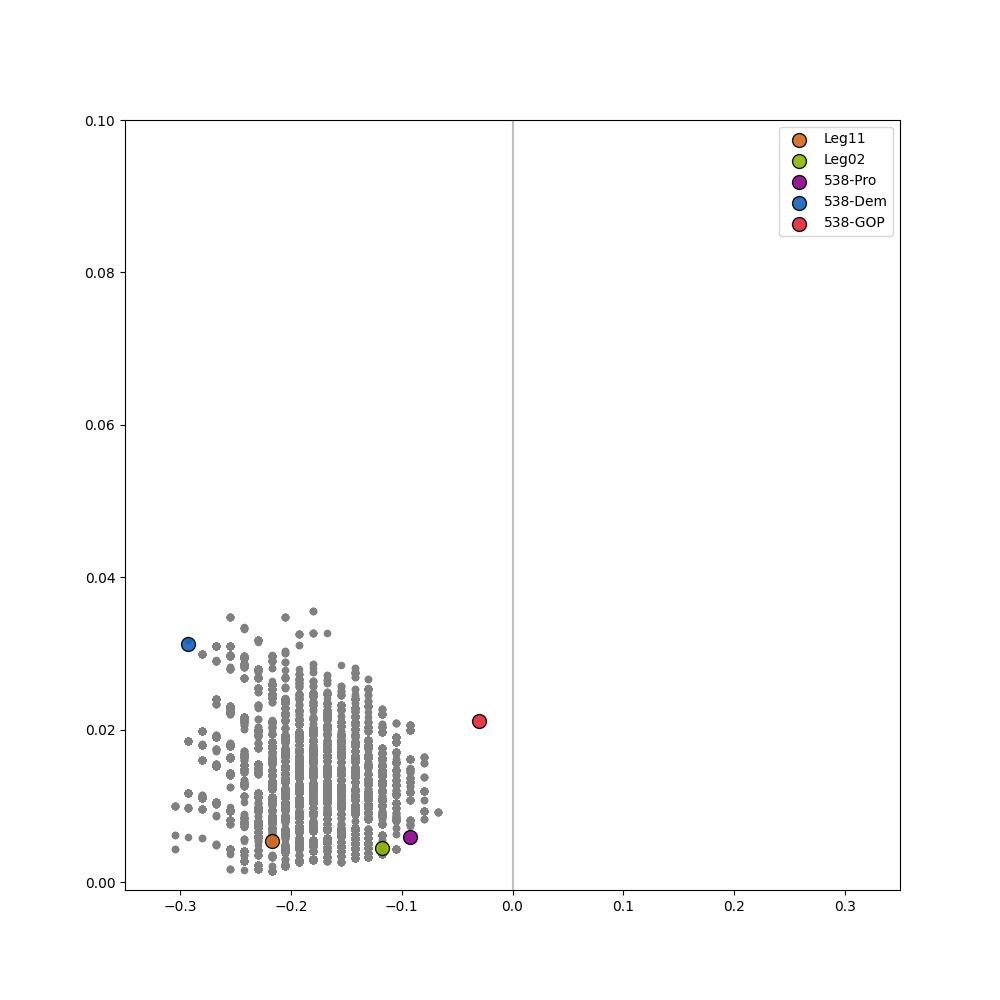
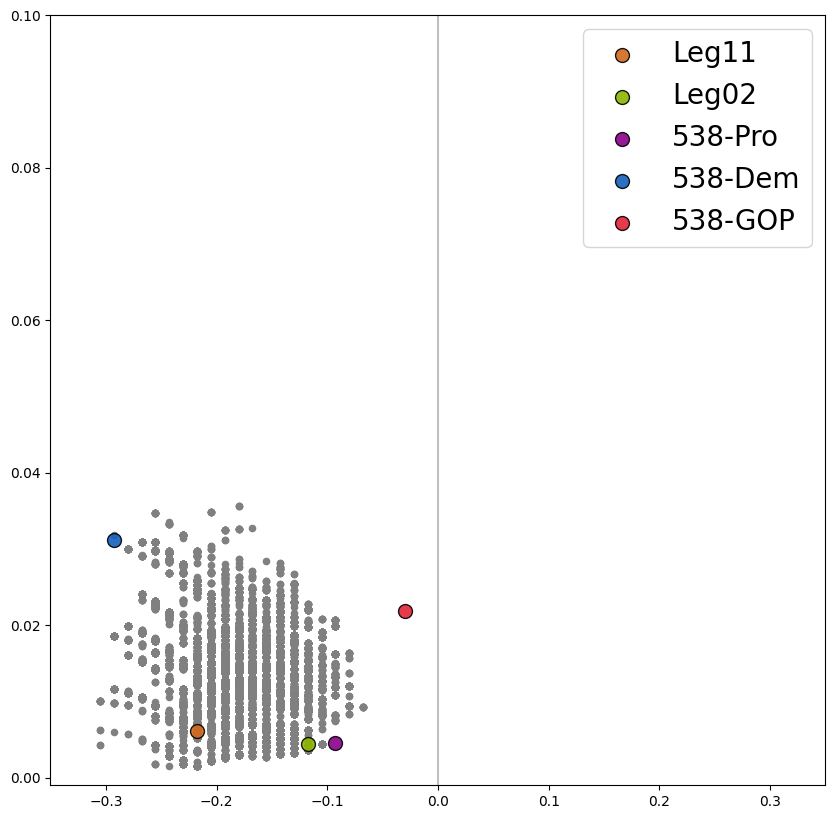
scatter edits

diff --git a/make_scatters.py b/make_scatters.py
@@ -45,8 +45,8 @@ def main():
         ax.set_xlim(-0.35, 0.35)
         ax.set_ylim(-0.001, 0.1)
         plt.axvline(0, color='gray', alpha=0.5)
-        plt.legend()
-        plt.savefig(f"outputs/{state}/plots/{state}_scatter.png")
+        plt.legend(fontsize=20)
+        plt.savefig(f"outputs/{state}/plots/{state}_scatter.png", bbox_inches='tight')
     return
 
 if __name__=="__main__":
